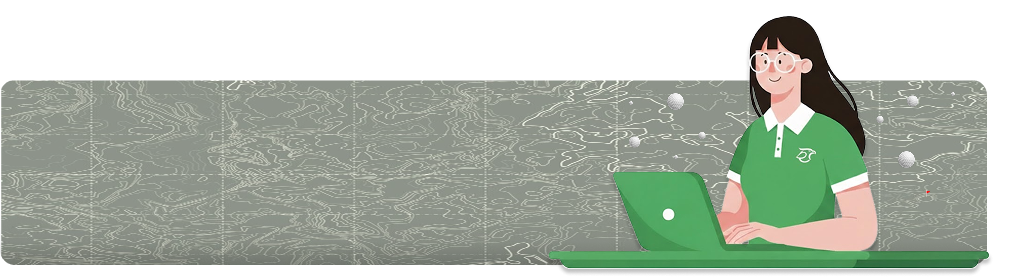
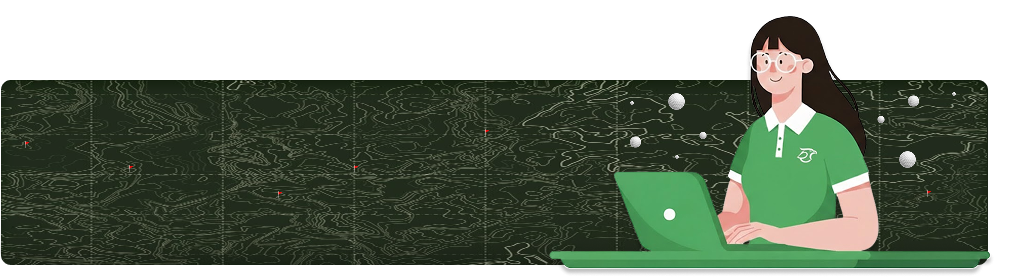
Done Colors of Heroimgs

diff --git a/Frontend/app/(main)/dispatcher/Tabs/DashboardTab.tsx b/Frontend/app/(main)/dispatcher/Tabs/DashboardTab.tsx
@@ -125,7 +125,25 @@ export default function DashboardTab({ userName, counts, assignedBays }: { userN
       const AsyncStorageModule = await import('@react-native-async-storage/async-storage').catch(() => null);
       const AsyncStorage = (AsyncStorageModule as any)?.default ?? AsyncStorageModule;
       const override = AsyncStorage ? await AsyncStorage.getItem('backendBaseUrlOverride') : null;
-      if (override) baseUrl = override;
+        if (override) {
+          // Quick health probe for the override. If it's reachable, return it.
+          try {
+            const controller = new AbortController();
+            const t = setTimeout(() => { try { controller.abort(); } catch {} }, 1500);
+            const url = `${override.replace(/\/$/, '')}/api/health`;
+            const r = await fetch(url, { method: 'GET', signal: controller.signal }).catch(() => null);
+            clearTimeout(t);
+            if (r && r.ok) {
+              baseUrl = override;
+            } else {
+              // remove stale override so subsequent resolution can fall back
+              try { await AsyncStorage.removeItem('backendBaseUrlOverride'); } catch {}
+              console.warn('Removed unreachable backendBaseUrlOverride', override);
+            }
+          } catch (e) {
+            try { await AsyncStorage.removeItem('backendBaseUrlOverride'); } catch {}
+          }
+        }
     } catch {}
     return baseUrl;
   };
@@ -598,7 +616,7 @@ export default function DashboardTab({ userName, counts, assignedBays }: { userN
         >
           {/* Checkbox overlay shown when selection mode is active or bay is pre-selected (only for active bays) */}
           {(isSelecting || isSelected) && isActive ? (
-            <View style={{ position: 'absolute', top: 6, right: 6, width: 26, height: 26, borderRadius: 6, backgroundColor: isSelected ? '#17321d' : 'rgba(255,255,255,0.9)', borderWidth: 1, borderColor: '#ccc', alignItems: 'center', justifyContent: 'center', zIndex: 2 }}>
+            <View style={{ position: 'absolute', top: 6, right: 6, width: 26, height: 26, borderRadius: 6, backgroundColor: isSelected ? '#333' : 'rgba(255,255,255,0.9)', borderWidth: 1, borderColor: '#ccc', alignItems: 'center', justifyContent: 'center', zIndex: 2 }}>
               <MaterialIcons name={isSelected ? 'check-box' : 'check-box-outline-blank'} size={18} color={isSelected ? '#fff' : '#333'} />
             </View>
           ) : null}
@@ -659,7 +677,7 @@ export default function DashboardTab({ userName, counts, assignedBays }: { userN
         >
           {/* Checkbox overlay shown when selection mode is active or bay is pre-selected (only for active bays) */}
           {(isSelecting || isSelected) && isActive ? (
-            <View style={{ position: 'absolute', top: 6, right: 6, width: 26, height: 26, borderRadius: 6, backgroundColor: isSelected ? '#17321d' : 'rgba(255,255,255,0.9)', borderWidth: 1, borderColor: '#ccc', alignItems: 'center', justifyContent: 'center', zIndex: 2 }}>
+            <View style={{ position: 'absolute', top: 6, right: 6, width: 26, height: 26, borderRadius: 6, backgroundColor: isSelected ? '#333' : 'rgba(255,255,255,0.9)', borderWidth: 1, borderColor: '#ccc', alignItems: 'center', justifyContent: 'center', zIndex: 2 }}>
               <MaterialIcons name={isSelected ? 'check-box' : 'check-box-outline-blank'} size={18} color={isSelected ? '#fff' : '#333'} />
             </View>
           ) : null}
@@ -739,8 +757,8 @@ export default function DashboardTab({ userName, counts, assignedBays }: { userN
 
         <View style={{ flexDirection: 'row', justifyContent: 'space-between', alignItems: 'center', marginBottom: 8 }}>
           <TouchableOpacity style={{ flexDirection: 'row', alignItems: 'center', backgroundColor: '#F4F4F2', paddingHorizontal: 10, paddingVertical: 6, borderRadius: 6 }} onPress={() => setMinimizeBays((v) => !v)}>
-            <MaterialIcons name={minimizeBays ? 'unfold-less' : 'unfold-more'} size={18} color="#17321d" />
-            <Text style={{ marginLeft: 8, color: '#17321d', fontWeight: '700' }}>{minimizeBays ? 'Compact View' : 'Normal View'}</Text>
+            <MaterialIcons name={minimizeBays ? 'unfold-less' : 'unfold-more'} size={18} color="#333" />
+            <Text style={{ marginLeft: 8, color: '#333', fontWeight: '700' }}>{minimizeBays ? 'Compact View' : 'Normal View'}</Text>
           </TouchableOpacity>
 
           {isSelecting ? (
@@ -1095,7 +1113,7 @@ const styles = StyleSheet.create({
   pageNextText: { color: '#333', fontWeight: '600' },
   pageList: { flexDirection: 'row', alignItems: 'center', justifyContent: 'center', paddingHorizontal: 8 },
   pageButton: { paddingHorizontal: 8, paddingVertical: 6, marginHorizontal: 4, borderRadius: 6, backgroundColor: '#fff', borderWidth: 1, borderColor: '#e0e0e0' },
-  pageButtonActive: { backgroundColor: '#17321d' },
+  pageButtonActive: { backgroundColor: '#333' },
   pageButtonText: { color: '#333', fontWeight: '600' },
   pageButtonTextActive: { color: '#fff', fontWeight: '700' },
   // Make overlay cover the entire screen (absolute) so it works correctly on web
@@ -1123,6 +1141,6 @@ const styles = StyleSheet.create({
   modalButtonText: { color: '#fff', fontWeight: '600' },
   closeButton: { marginTop: 10, backgroundColor: '#007bff', paddingVertical: 10, borderRadius: 8, alignItems: 'center' },
   closeButtonText: { color: '#fff', fontWeight: '700' },
-  badgeCircle: { position: 'absolute', top: -8, right: -8, backgroundColor: '#17321d', minWidth: 20, height: 20, borderRadius: 10, alignItems: 'center', justifyContent: 'center', paddingHorizontal: 4 },
+  badgeCircle: { position: 'absolute', top: -8, right: -8, backgroundColor: '#333', minWidth: 20, height: 20, borderRadius: 10, alignItems: 'center', justifyContent: 'center', paddingHorizontal: 4 },
   badgeText: { color: '#fff', fontSize: 12, fontWeight: '700' },
 });

diff --git a/Frontend/app/(main)/dispatcher/DispatcherHeader.tsx b/Frontend/app/(main)/dispatcher/DispatcherHeader.tsx
@@ -51,8 +51,11 @@ export default function DispatcherHeader({
         ) : null}
       </View>
       {/* optional banner below header (Dashboard uses this) */}
-      {showBanner ? (
-          <ImageBackground source={bannerSource ?? { uri: 'https://via.placeholder.com/1200x180/17321d/ffffff?text=Eagle+Point' }} style={styles.banner} imageStyle={{ borderRadius: 10 }}>
+    {showBanner ? (
+      <View style={styles.bannerWrapper}>
+        {/* right-side green panel sits behind the image and shows through transparent pixels */}
+        <View style={styles.bannerGreenPanel} />
+        <ImageBackground source={bannerSource ?? { uri: 'https://via.placeholder.com/1200x180/17321d/ffffff?text=Eagle+Point' }} style={styles.banner} resizeMode="cover" imageStyle={{ borderRadius: 10, backgroundColor: 'transparent', opacity: 1 }}>
           <View style={styles.bannerOverlay}>
             <Text style={styles.bannerTitle}>{shortName ? `Welcome back, Dispatcher ${shortName}` : `Welcome back, Dispatcher`}</Text>
             <View>
@@ -61,9 +64,10 @@ export default function DispatcherHeader({
             </View>
           </View>
         </ImageBackground>
-      ) : (
-        <View style={styles.divider} />
-      )}
+      </View>
+    ) : (
+      <View style={styles.divider} />
+    )}
     </View>
   );
 }
@@ -77,8 +81,14 @@ const styles = StyleSheet.create({
   badgeRow: { flexDirection: 'row' },
   badge: { backgroundColor: '#e6f0e5', paddingHorizontal: 10, paddingVertical: 6, borderRadius: 8, borderWidth: 1, borderColor: '#c8e0c3', marginLeft: 8 },
   badgeText: { fontSize: 12, fontWeight: '600', color: '#314c31' },
-  // Match Admin banner sizing and spacing
-  banner: { width: '100%', height: 190, borderRadius: 12, marginBottom: 8, backgroundColor: 'transparent'},
+    // Match Admin banner sizing and spacing
+    // Wrapper holds an absolutely-positioned green panel on the right and the
+    // ImageBackground sits above it. The ImageBackground uses imageStyle
+    // borderRadius so the image corners remain rounded.
+    bannerWrapper: { position: 'relative', width: '100%', height: 190, marginBottom: 8 },
+    banner: { width: '100%', height: 190, borderRadius: 10, marginBottom: 8, backgroundColor: 'transparent', overflow: 'hidden' },
+    // Right-side green accent (shows through transparent pixels of the image)
+    bannerGreenPanel: { position: 'absolute', top: 65, right: 0, bottom: 0, width: '100%',height:'65%', backgroundColor: '#17321d', borderRadius: 10 },
   bannerOverlay: { flex: 1, justifyContent: 'space-between', padding: 16, alignItems: 'flex-start' },
   bannerTitle: { color: '#fff', marginTop: 60, fontSize: 20, fontWeight: '800', textShadowColor: 'rgba(0,0,0,0.35)', textShadowOffset: { width: 0, height: 1 }, textShadowRadius: 2 },
   bannerDate: { color: '#fff', marginBottom: 4, marginTop: 6, fontSize: 13, fontWeight: '600' },

diff --git a/Frontend/app/index.tsx b/Frontend/app/index.tsx
@@ -86,9 +86,28 @@ const Login: React.FC = () => {
       const AsyncStorage = (AsyncStorageModule as any)?.default ?? AsyncStorageModule;
       const override = AsyncStorage ? await AsyncStorage.getItem('backendBaseUrlOverride') : null;
       if (override) {
-        console.debug('Using persisted backendBaseUrlOverride', override);
-        try { (global as any).__EAGLEPOINT_BASE_URL__ = override; } catch {}
-        return override;
+        // Probe the persisted override quickly. If it's reachable, use it. If not,
+        // remove the persisted override so the app can fall back to other candidates.
+        try {
+          const controller = new AbortController();
+          const timeoutMs = 1500;
+          const t = setTimeout(() => { try { controller.abort(); } catch {} }, timeoutMs);
+          const url = `${override.replace(/\/$/, '')}/api/health`;
+          const resp = await fetch(url, { method: 'GET', signal: controller.signal }).catch(() => null);
+          clearTimeout(t);
+          if (resp && resp.ok) {
+            console.debug('Using persisted backendBaseUrlOverride (reachable)', override);
+            try { (global as any).__EAGLEPOINT_BASE_URL__ = override; } catch {}
+            return override;
+          }
+          console.warn('Persisted backendBaseUrlOverride is unreachable, removing override', override);
+          try { await AsyncStorage.removeItem('backendBaseUrlOverride'); } catch (e) { /* ignore */ }
+        } catch (e: any) {
+          // On any probe error, clear the override to avoid repeatedly attempting
+          // to use a host that's unreachable from this device/emulator.
+          try { await AsyncStorage.removeItem('backendBaseUrlOverride'); } catch {}
+          if (!String(e?.message ?? '').includes('Cannot find module')) console.warn('probeHosts override probe failed', e);
+        }
       }
     } catch (e: any) {
       if (!String(e?.message ?? '').includes('Cannot find module')) console.warn('probeHosts read override failed', e);

diff --git a/Frontend/app/(main)/admin/admin.tsx b/Frontend/app/(main)/admin/admin.tsx
@@ -655,7 +655,7 @@ export default function AdminDashboard() {
         return (
           <ScrollView style={styles.scrollContent}>
             <View style={styles.contentContainer}>
-              {/* Header banner with welcome text inside image, date/time below */}
+              {/* Header banner with welcome text inside imagoe, date/time below */}
               <ImageBackground
                 source={require('../../../assets/General/AdminHeroImage.png')}
                 style={styles.headerBannerImage}
@@ -1076,6 +1076,7 @@ const styles = StyleSheet.create({
     height: 190,
     borderRadius: 12,
     marginBottom: 8,
+    marginTop:30,
     backgroundColor: 'transparent',
   },
   headerBannerOverlay: { flex: 1, justifyContent: 'space-between', padding: 16, alignItems: 'flex-start' },
